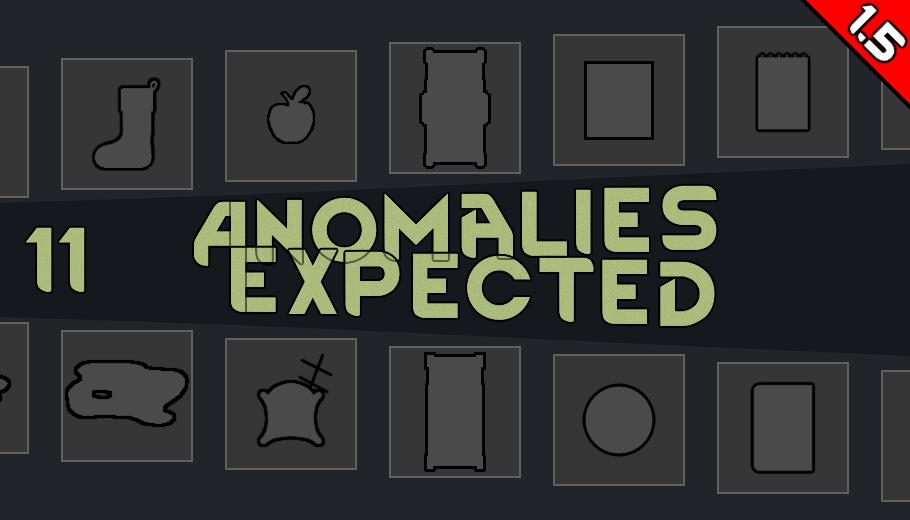
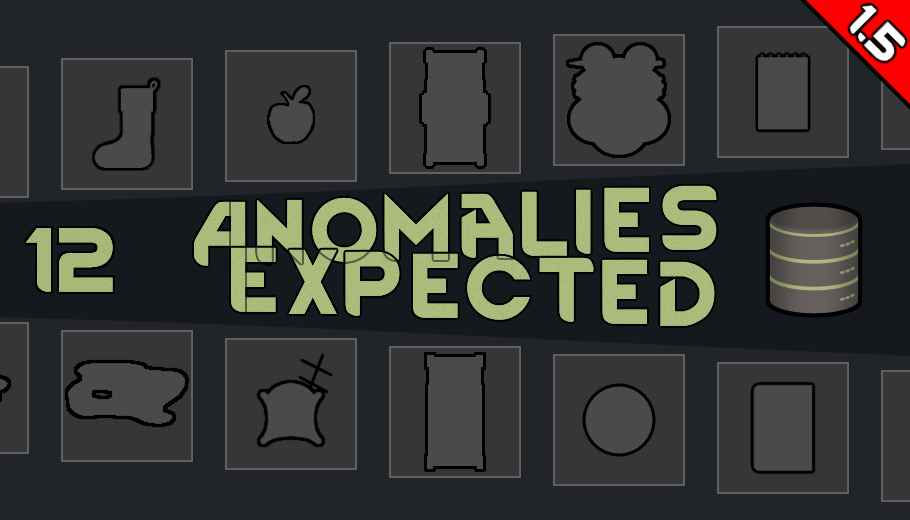
Preparation for release

Changed region(s): [[0.8308, 0.3692, 0.9538, 0.6154], [0.6154, 0.0615, 0.7385, 0.3077], [0.0615, 0.4308, 0.1231, 0.5846]]

diff --git a/README.md b/README.md
@@ -8,9 +8,10 @@ If you want more anomalies to explore and experiment with, then you might like t
 
 Mod adding new anomalies for Anomaly DLC. With it own benefits and risks.
 Most anomalies here give you some benefit for keeping them in colony with it own containment risks, rather than being just a temporary threat event to the colony like most of anomalies from DLC.
-While usually I try to explain in mod description how mod content work in details, due to the main interest of anomalies is to discover and study them, I won't spoil it.
-Have it own research tab Anomalies Expected, which work same way as Anomaly tab.
+Mod have it own research tab Anomalies Expected, which work same way as Anomaly tab.
+Also this mod adding a reworked Entity Codex as new Entity Database, which allowing to read study notes, carry over study progress between anomalies and see all information related to each entity.
 On some study notes label and description of anomaly might change to fit the current understanding of the anomaly. Additionally some study notes will unlock new research projects to motivate full study of related anomaly.
+While usually I try to explain in mod description how mod content work in details, due to the main interest of anomalies is to discover and study them, I won't spoil it.
 
 ![Text](/Mod%20Page/Images/Content/AEDesc1.png)
 ![Text](/Mod%20Page/Images/Content/AEDesc2.png)
@@ -23,6 +24,7 @@ On some study notes label and description of anomaly might change to fit the cur
 ![Text](/Mod%20Page/Images/Content/AEDesc9.png)
 ![Text](/Mod%20Page/Images/Content/AEDesc10.png)
 ![Text](/Mod%20Page/Images/Content/AEDesc11.png)
+![Text](/Mod%20Page/Images/Content/AEDesc12.png)
 
 Anomalies Classification:
 * Class 0 anomaly "Safe".
@@ -33,7 +35,7 @@ Anomalies Classification:
 
 Currently available:
 * 6 Anomaly of basic category
-* 5 Anomaly of advanced category
+* 6 Anomaly of advanced category
 
 ## Links
 
